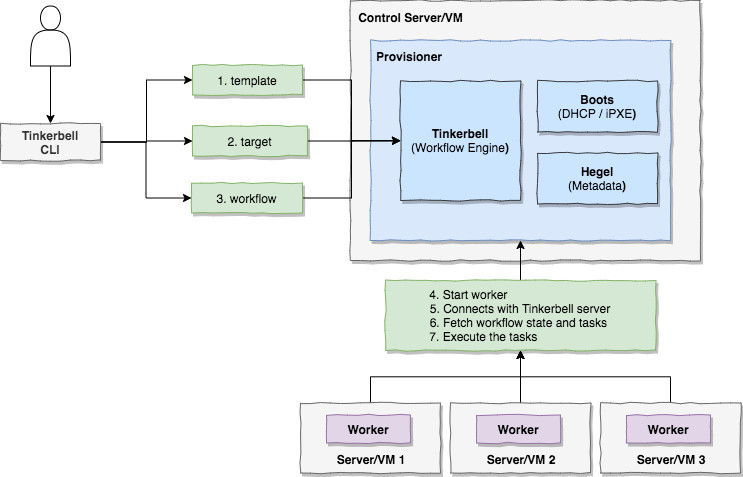
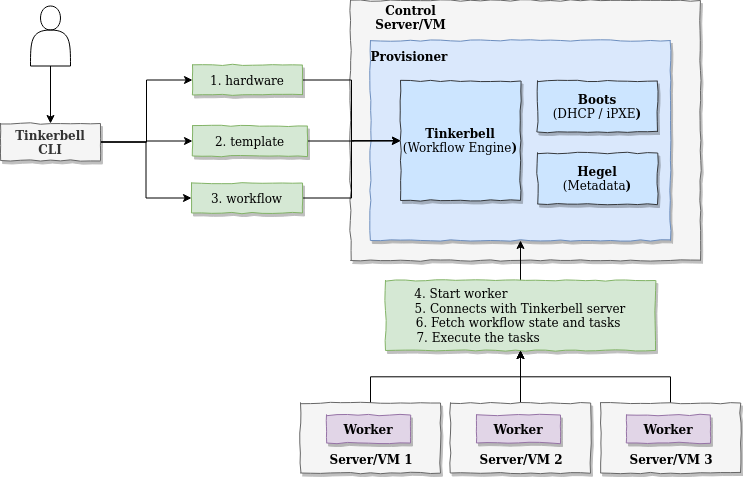
Removing the "target" reference from the website (#25)
In this PR the "target" reference has been removed and replaced with hardware reference wherever required.

diff --git a/content/concepts/_index.md b/content/concepts/_index.md
@@ -6,13 +6,16 @@ weight = 20
 toc = true
 +++
 
+### Hardware
+A *hardware device* is defined separately and is substituted in a template at the time of creating a workflow.
+
 ### Template
 
 A template is a YAML definition which defines the overall workflow.
 It is independent of a worker and therefore fetches the worker values using Go template when a workflow is created.
 A user must write a template based on a valid template format.
 Template can consist of custom variable which can be substituted before execution.
-For example, a target is defined separately and is substituted in a template at the time of creating a workflow.
+For example, worker is a targeted hardware is defined separately and is substituted in a template at the time of creating a workflow.
 
 A template is stored as a blob in the database and is parsed later during the creation of a worflow.
 A user can CRUD a template using the CLI (`tink template`).
@@ -24,13 +27,13 @@ name: ubuntu_provisioning
 global_timeout: 6000
 tasks:
 - name: "os-installation"
-  worker: "{{index .Targets "machine1" "mac_addr"}}"
+  worker: "{{.device_1}}"
   volumes:
     - /dev:/dev
     - /dev/console:/dev/console
     - /lib/firmware:/lib/firmware:ro
   environment:
-    MIRROR_HOST: 192.168.1.2
+    MIRROR_HOST: <MIRROR_HOST_IP>
   actions:
   - name: "disk-wipe"
     image: disk-wipe
@@ -39,7 +42,7 @@ tasks:
     image: disk-partition
     timeout: 600
     environment:
-       MIRROR_HOST: 192.168.1.3
+       MIRROR_HOST: <MIRROR_HOST_IP>
     volumes:
       - /statedir:/statedir
   - name: "install-root-fs"
@@ -63,28 +66,11 @@ For example, in the above template the `MIRROR_HOST` environment variable define
 However, the other actions will receive the original value defined at the task level.
 
 
-### Targets
-
-Targets are mapping between the virtual worker name and the actual host.
-Currently we are refer targets with MAC or IP address.
-Here is a sample target definition:
-
-```json
-{
-    "machine1":  {
-        "ip_addr": "192.168.1.2"
-    },
-    "machine2" :  {
-        "mac_addr": "ca:00:64:b8:2d:00"
-    }
-}
-```
-
-A target can be accessed in template like (refer above template):
+A hardware device can be accessed in template like (refer above template):
 
 ```
-{{ index .Targets "machine1" "ip_addr"}}
-{{ index .Targets "machine2" "mac_addr"}}
+{{.device_1}}
+{{.device_2}}
 ```
 
 ### Provisioner
@@ -104,6 +90,8 @@ A provisioner houses the following components:
 It is upto you if you would like to divide these components into multiple servers.
 
 ### Worker
+
+A worker is targeted hardware on which workflow needs to run.
 
 Any node that has its data being pushed into Tinkerbell can become a part of a workflow.
 A worker can be a part of multiple workflows.

diff --git a/content/cli-reference/workflow.md b/content/cli-reference/workflow.md
@@ -24,13 +24,13 @@ Workflow operations:
 ### Options
 
 ```
-  -h, --help   help for target
+  -h, --help   help for workflow
 ```
 
 ### Examples
 
- - Create a workflow using a template and a target
- ```
-  $ tink workflow create -t <template-uuid> -r <target-uuid>
-  $ tink workflow create -t edb80a56-b1f2-4502-abf9-17326324192b -r 9356ae1d-6165-4890-908d-7860ed04b421
+ - Create a workflow using a template and a targeted hardware devices
+ ```shell
+  $ tink workflow create -t <template-uuid> -r <targeted_hardware_devices_in_json_format>
+  $ tink workflow create -t edb80a56-b1f2-4502-abf9-17326324192b -r '{"device_1":"mac/IP", "device_2":"mac/IP"}'
  ```

diff --git a/content/cli-reference/_index.md b/content/cli-reference/_index.md
@@ -12,14 +12,13 @@ Command line interface for Packet Workflow.
 
 Command line interface for Packet Workflow.
 The CLI allows you to update the hardware details with respect to a worker machine.
-It also enables you to create a template and a target which is eventually used to create a workflow.
+It also enables you to create a template and push the hardware data which is eventually used to create a workflow.
 
 ### Operations
 
 ```
   hardware    tink hardware client
   help        help about any command
-  target      tink target client
   template    tink template client
   workflow    tink workflow client
 ```

diff --git a/content/cli-reference/template.md b/content/cli-reference/template.md
@@ -22,7 +22,7 @@ Template operations:
 ### Options
 
 ```
-  -h, --help   help for target
+  -h, --help   help for template
 ```
 
 ### Examples
